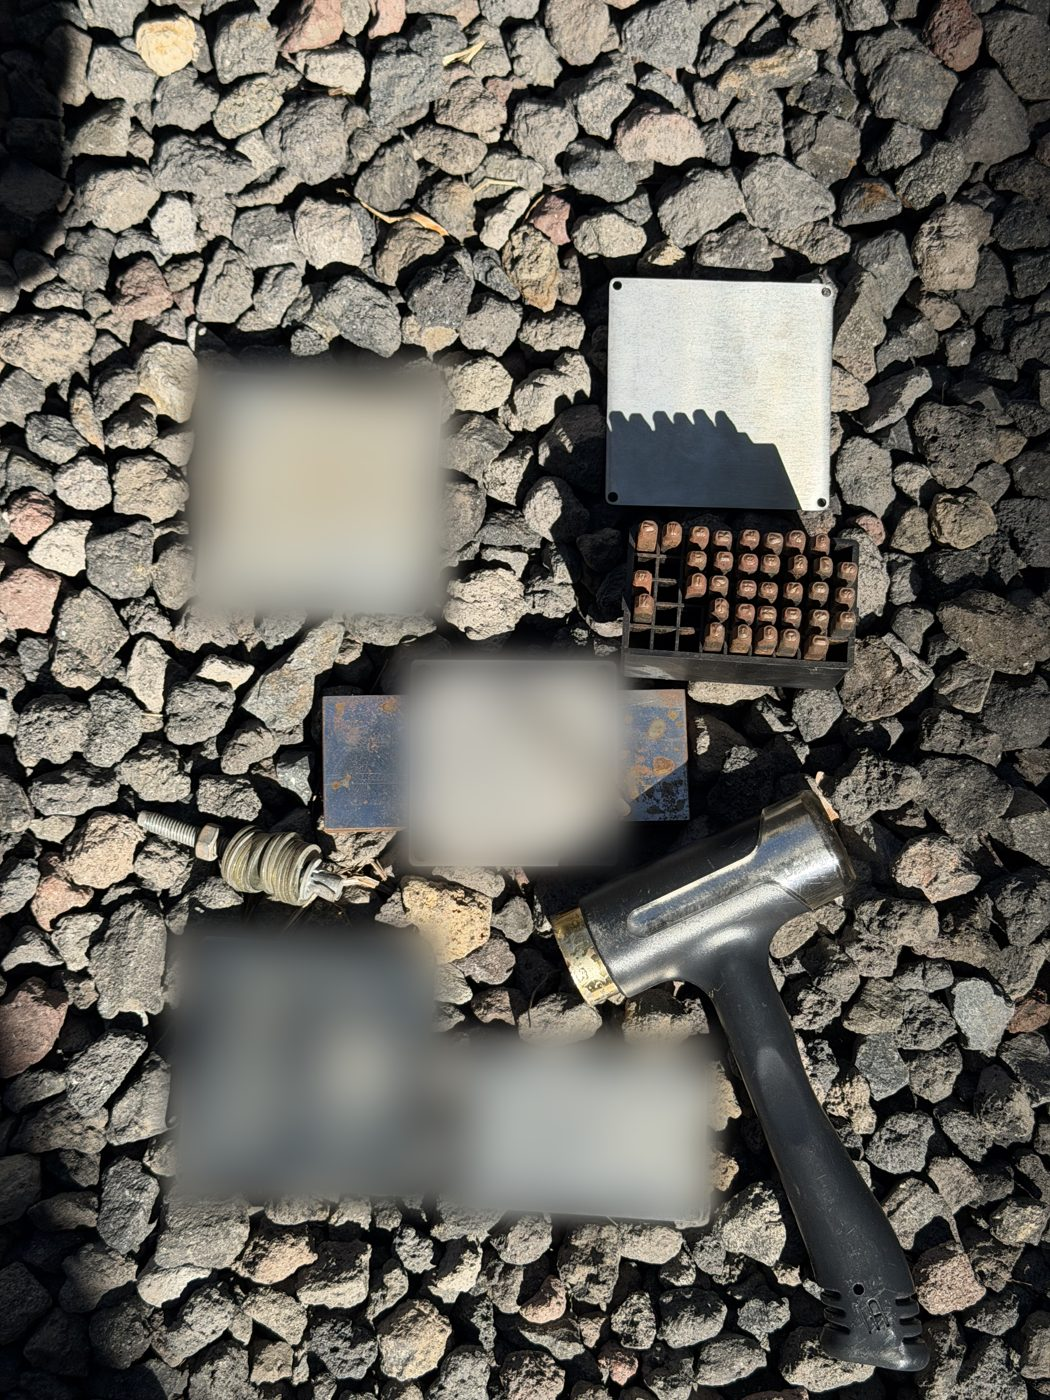
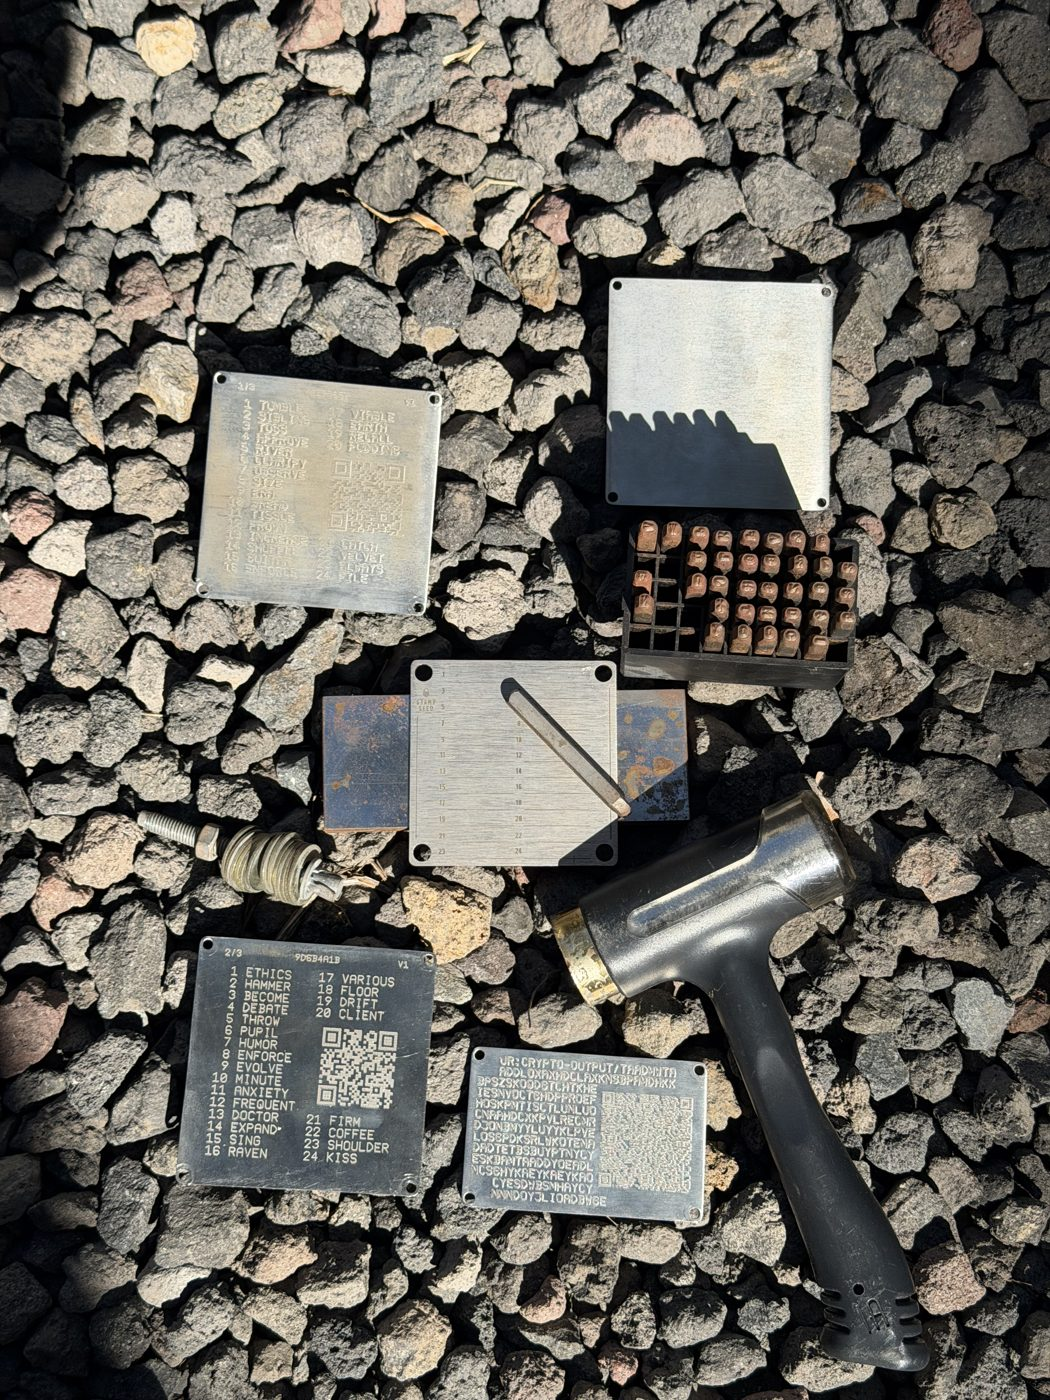
Use the original, unblurred photos in the self-custody article (#5)
* Add Articles section with first article and RSS feed

Adds /articles (index) and /articles/why-self-custody-matters, built from
the existing page template, with Article + Breadcrumb JSON-LD, Open Graph
and Twitter tags, and a Buttondown newsletter form (username placeholder).

tools/generate-pages.mjs now mirrors article pages to clean URLs, adds them
to sitemap.xml, and builds feed.xml from each article's metadata.

Claude-Session: https://claude.ai/code/session_019U126C2ZBUF1EbJFfFgF4D

* Add Andy's article photos, author box, and Buttondown username

Three workshop photos (seed words and SeedQR codes blurred or cropped out,
EXIF/location data stripped), a 1200x630 social image, Andy's avatar in the
byline and an author box, and the code_orange Buttondown form.

Claude-Session: https://claude.ai/code/session_019U126C2ZBUF1EbJFfFgF4D

* Use the original, unblurred photos in the self-custody article

Restores the full photos (no blur, devices photo no longer cropped) and
updates the steel backup caption. EXIF metadata is still stripped.

Claude-Session: https://claude.ai/code/session_019U126C2ZBUF1EbJFfFgF4D

---------

Changed region(s): [[0.1524, 0.2457, 0.701, 0.8907]]

diff --git a/articles/why-self-custody-matters.html b/articles/why-self-custody-matters.html
@@ -294,7 +294,7 @@ h3 { margin: 0; font-size: 26px; line-height: 1.15; }
         <li><strong>Complete independence:</strong> Nobody can censor your transactions or touch your balance.</li>
       </ul>
       <p>That is what financial sovereignty actually means: having absolute control over the value you worked for.</p>
-      <figure class="article-figure inline"><img src="/assets/articles/self-custody-devices.jpg" alt="Hardware signing devices, including a Coldcard, on a workshop table" width="1200" height="1158" loading="lazy"><figcaption>Hardware signing devices from a Code Orange self-custody workshop.</figcaption></figure>
+      <figure class="article-figure inline"><img src="/assets/articles/self-custody-devices.jpg" alt="Hardware signing devices, SeedQR plates and seed word cards on a workshop table" width="1050" height="1400" loading="lazy"><figcaption>Hardware signing devices from a Code Orange self-custody workshop.</figcaption></figure>
 
       <h2>How to get started</h2>
       <p>Starting out does not require a complicated setup:</p>
@@ -303,7 +303,7 @@ h3 { margin: 0; font-size: 26px; line-height: 1.15; }
         <li><strong>Back up your seed phrase on paper or metal</strong>, never digitally.</li>
         <li><strong>Send a $10 test</strong>, wipe the device clean, and restore it from your words.</li>
       </ol>
-      <figure class="article-figure inline"><img src="/assets/articles/self-custody-metal-backup.jpg" alt="Stamped steel seed phrase backup plates with a letter punch set and hammer" width="1050" height="1400" loading="lazy"><figcaption>Seed phrases stamped into steel. The words are blurred here; never share yours.</figcaption></figure>
+      <figure class="article-figure inline"><img src="/assets/articles/self-custody-metal-backup.jpg" alt="Stamped steel seed phrase backup plates with a letter punch set and hammer" width="1050" height="1400" loading="lazy"><figcaption>Seed phrases stamped into steel, ready to survive fire and water.</figcaption></figure>
       <p>Once you watch those test funds reappear, the fear disappears. You realize your Bitcoin doesn&rsquo;t live inside that small piece of plastic. It lives on the network, accessible only by your keys.</p>
 
       <h2>Exchanges are for buying. Self-custody is for saving.</h2>

diff --git a/articles/why-self-custody-matters/index.html b/articles/why-self-custody-matters/index.html
@@ -294,7 +294,7 @@ h3 { margin: 0; font-size: 26px; line-height: 1.15; }
         <li><strong>Complete independence:</strong> Nobody can censor your transactions or touch your balance.</li>
       </ul>
       <p>That is what financial sovereignty actually means: having absolute control over the value you worked for.</p>
-      <figure class="article-figure inline"><img src="/assets/articles/self-custody-devices.jpg" alt="Hardware signing devices, including a Coldcard, on a workshop table" width="1200" height="1158" loading="lazy"><figcaption>Hardware signing devices from a Code Orange self-custody workshop.</figcaption></figure>
+      <figure class="article-figure inline"><img src="/assets/articles/self-custody-devices.jpg" alt="Hardware signing devices, SeedQR plates and seed word cards on a workshop table" width="1050" height="1400" loading="lazy"><figcaption>Hardware signing devices from a Code Orange self-custody workshop.</figcaption></figure>
 
       <h2>How to get started</h2>
       <p>Starting out does not require a complicated setup:</p>
@@ -303,7 +303,7 @@ h3 { margin: 0; font-size: 26px; line-height: 1.15; }
         <li><strong>Back up your seed phrase on paper or metal</strong>, never digitally.</li>
         <li><strong>Send a $10 test</strong>, wipe the device clean, and restore it from your words.</li>
       </ol>
-      <figure class="article-figure inline"><img src="/assets/articles/self-custody-metal-backup.jpg" alt="Stamped steel seed phrase backup plates with a letter punch set and hammer" width="1050" height="1400" loading="lazy"><figcaption>Seed phrases stamped into steel. The words are blurred here; never share yours.</figcaption></figure>
+      <figure class="article-figure inline"><img src="/assets/articles/self-custody-metal-backup.jpg" alt="Stamped steel seed phrase backup plates with a letter punch set and hammer" width="1050" height="1400" loading="lazy"><figcaption>Seed phrases stamped into steel, ready to survive fire and water.</figcaption></figure>
       <p>Once you watch those test funds reappear, the fear disappears. You realize your Bitcoin doesn&rsquo;t live inside that small piece of plastic. It lives on the network, accessible only by your keys.</p>
 
       <h2>Exchanges are for buying. Self-custody is for saving.</h2>
